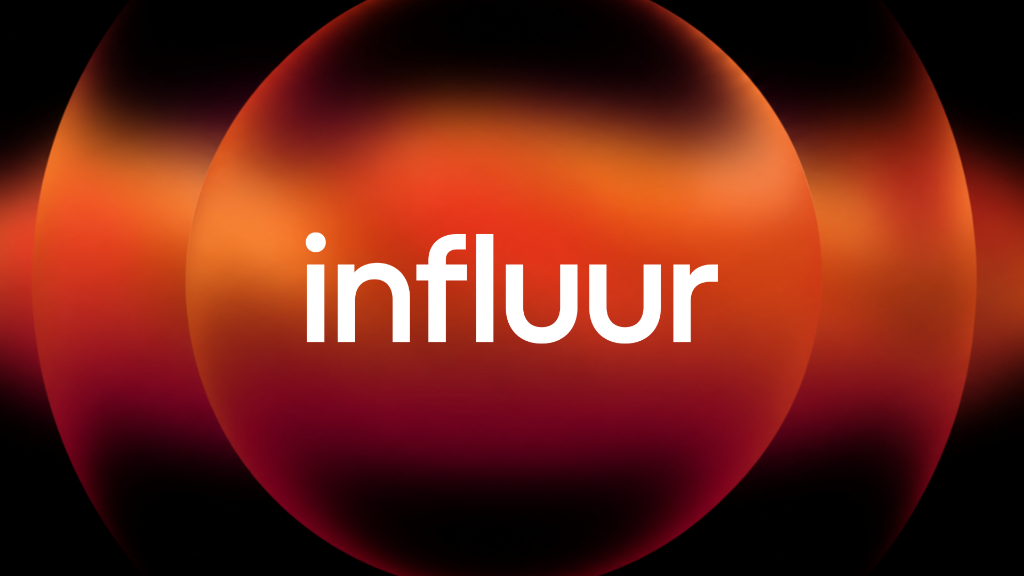
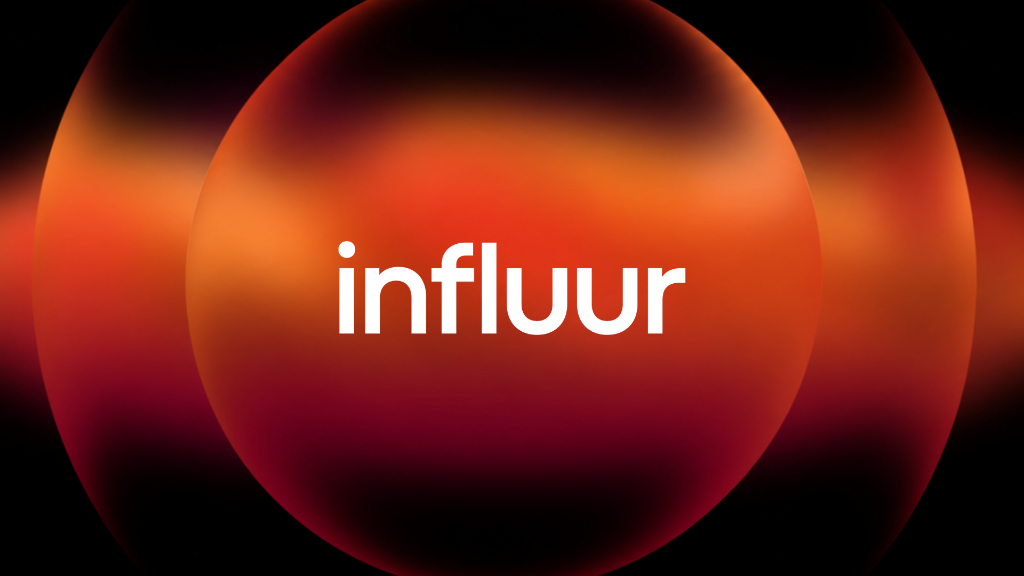
Update partner cards cover images

Changed region(s): [[0.2812, 0.4062, 0.7188, 0.5938]]

diff --git a/v2/index.html b/v2/index.html
@@ -99,7 +99,7 @@
                 <!-- Unicoin Box -->
                 <a href="https://unicoin.org/" target="_blank" class="partner-card">
                     <div class="partner-image-wrapper">
-                        <img src="../partner_unicoin_v2.png" alt="Unicoin Foundation" class="partner-photo">
+                        <img src="../partner_unicoin_v2.jpg" alt="Unicoin Foundation" class="partner-photo">
                     </div>
                     <div class="partner-card-body">
                         <h3 class="partner-card-title">Unicoin Foundation</h3>